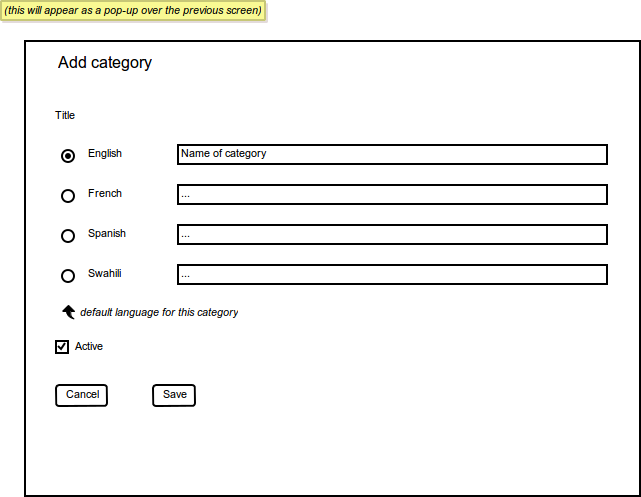
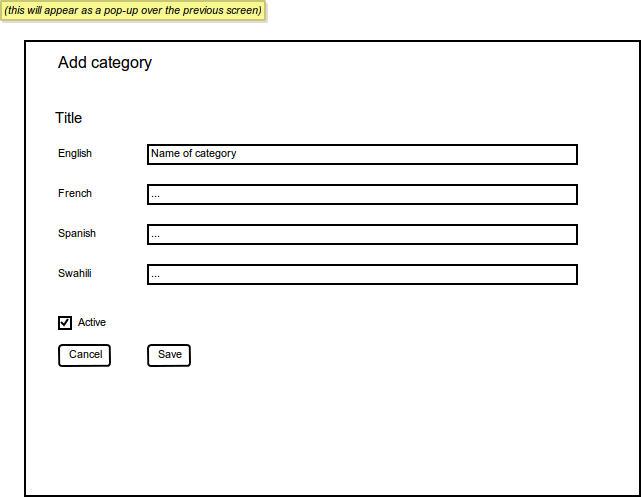
adjust wreframe manage categories: don't use default language

diff --git a/wireframes/index_files/story.js b/wireframes/index_files/story.js
@@ -525,19 +525,19 @@ var story = {
     {
      "page": 6,
      "rect": [
-      55,
-      384,
-      108,
-      407
+      58,
+      344,
+      111,
+      367
      ]
     },
     {
      "page": 6,
      "rect": [
-      152,
-      384,
-      196,
-      407
+      147,
+      344,
+      191,
+      367
      ]
     }
    ]
@@ -551,28 +551,28 @@ var story = {
     {
      "page": 6,
      "rect": [
-      58,
-      453,
-      111,
-      476
+      53,
+      432,
+      106,
+      455
      ]
     },
     {
      "page": 6,
      "rect": [
-      152,
-      453,
-      196,
-      476
+      147,
+      432,
+      191,
+      455
      ]
     },
     {
      "page": 4,
      "rect": [
-      61,
-      384,
-      213,
-      425
+      58,
+      359,
+      210,
+      400
      ]
     }
    ]
@@ -611,25 +611,25 @@ var story = {
      "rect": [
       184,
       0,
-      268,
+      265,
       23
      ]
     },
     {
      "page": 12,
      "rect": [
-      310,
+      306,
       0,
-      384,
+      379,
       23
      ]
     },
     {
      "page": 0,
      "rect": [
-      421,
+      417,
       0,
-      467,
+      463,
       23
      ]
     },
